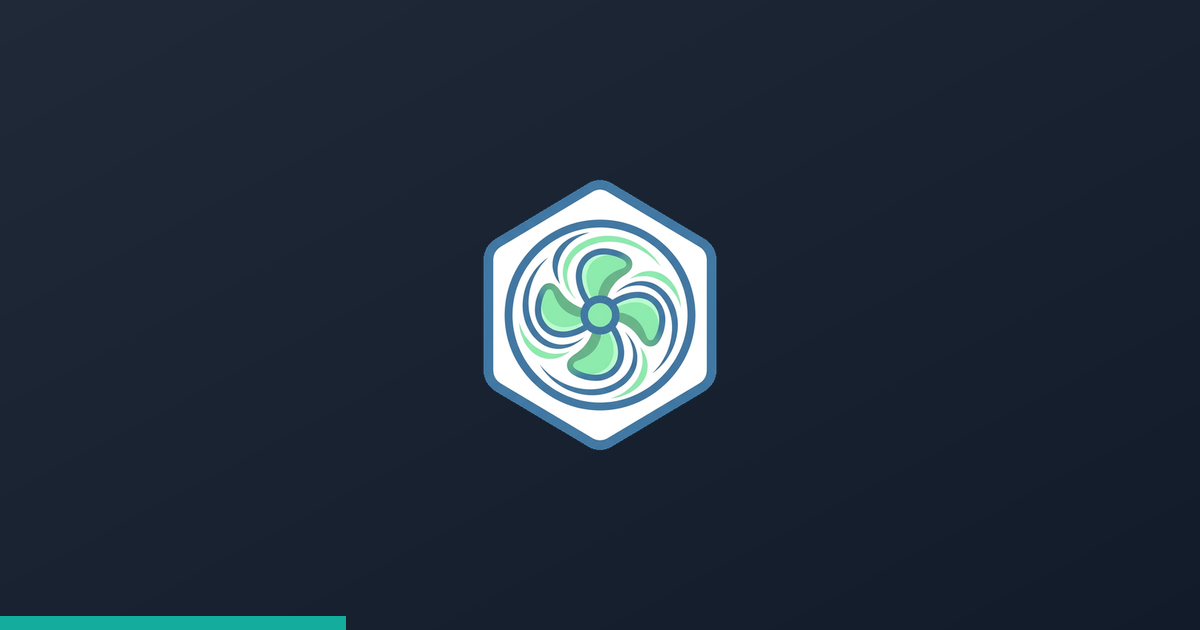
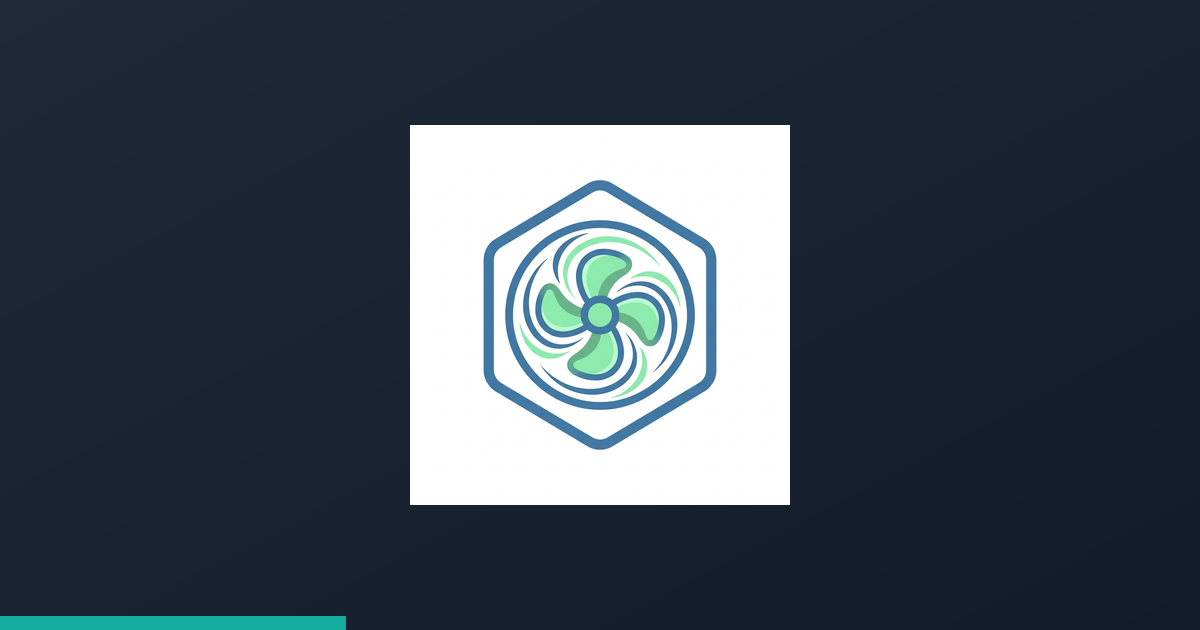
deploy: woodstockductcleaningpros.ca (github actions)

Changed region(s): [[0.3392, 0.181, 0.6783, 0.8143]]

diff --git a/about/index.html b/about/index.html
@@ -149,7 +149,7 @@
 <div class="footer-grid">
 <div>
 <a class="brand footer-brand" href="/">
-<img alt="Woodstock Duct Cleaning Pros" class="brand__logo" decoding="async" height="64" loading="eager" src="/assets/img/logos-trans/woodstockductcleaningpros.ca.png" width="64"/>
+<img alt="Woodstock Duct Cleaning Pros" class="brand__logo" decoding="async" height="64" loading="eager" src="/assets/img/logos/woodstockductcleaningpros.ca.png" width="64"/>
 </a>
 <p class="footer-about">Honest, dependable air duct cleaning for Woodstock, Ontario and the surrounding Oxford communities. Certified, insured, and available 24/7.</p>
 </div>

diff --git a/blog/index.html b/blog/index.html
@@ -102,7 +102,7 @@
 <div class="footer-grid">
 <div>
 <a class="brand footer-brand" href="/">
-<img alt="Woodstock Duct Cleaning Pros" class="brand__logo" decoding="async" height="64" loading="eager" src="/assets/img/logos-trans/woodstockductcleaningpros.ca.png" width="64"/>
+<img alt="Woodstock Duct Cleaning Pros" class="brand__logo" decoding="async" height="64" loading="eager" src="/assets/img/logos/woodstockductcleaningpros.ca.png" width="64"/>
 </a>
 <p class="footer-about">Honest, dependable air duct cleaning for Woodstock, Ontario and the surrounding Oxford communities. Certified, insured, and available 24/7.</p>
 </div>

diff --git a/contact/index.html b/contact/index.html
@@ -174,7 +174,7 @@
 <div class="footer-grid">
 <div>
 <a class="brand footer-brand" href="/">
-<img alt="Woodstock Duct Cleaning Pros" class="brand__logo" decoding="async" height="64" loading="eager" src="/assets/img/logos-trans/woodstockductcleaningpros.ca.png" width="64"/>
+<img alt="Woodstock Duct Cleaning Pros" class="brand__logo" decoding="async" height="64" loading="eager" src="/assets/img/logos/woodstockductcleaningpros.ca.png" width="64"/>
 </a>
 <p class="footer-about">Honest, dependable air duct cleaning for Woodstock, Ontario and the surrounding Oxford communities. Certified, insured, and available 24/7.</p>
 </div>

diff --git a/index.html b/index.html
@@ -321,7 +321,7 @@
 <div class="footer-grid">
 <div>
 <a class="brand footer-brand" href="/">
-<img alt="Woodstock Duct Cleaning Pros" class="brand__logo" decoding="async" height="64" loading="eager" src="/assets/img/logos-trans/woodstockductcleaningpros.ca.png" width="64"/>
+<img alt="Woodstock Duct Cleaning Pros" class="brand__logo" decoding="async" height="64" loading="eager" src="/assets/img/logos/woodstockductcleaningpros.ca.png" width="64"/>
 </a>
 <p class="footer-about">Honest, dependable air duct cleaning for Woodstock, Ontario and the surrounding Oxford communities. Certified, insured, and available 24/7.</p>
 </div>

diff --git a/locations/embro/index.html b/locations/embro/index.html
@@ -199,7 +199,7 @@
 <div class="footer-grid">
 <div>
 <a class="brand footer-brand" href="/">
-<img alt="Woodstock Duct Cleaning Pros" class="brand__logo" decoding="async" height="64" loading="eager" src="/assets/img/logos-trans/woodstockductcleaningpros.ca.png" width="64"/>
+<img alt="Woodstock Duct Cleaning Pros" class="brand__logo" decoding="async" height="64" loading="eager" src="/assets/img/logos/woodstockductcleaningpros.ca.png" width="64"/>
 </a>
 <p class="footer-about">Honest, dependable air duct cleaning for Woodstock, Ontario and the surrounding Oxford communities. Certified, insured, and available 24/7.</p>
 </div>

diff --git a/locations/innerkip/index.html b/locations/innerkip/index.html
@@ -199,7 +199,7 @@
 <div class="footer-grid">
 <div>
 <a class="brand footer-brand" href="/">
-<img alt="Woodstock Duct Cleaning Pros" class="brand__logo" decoding="async" height="64" loading="eager" src="/assets/img/logos-trans/woodstockductcleaningpros.ca.png" width="64"/>
+<img alt="Woodstock Duct Cleaning Pros" class="brand__logo" decoding="async" height="64" loading="eager" src="/assets/img/logos/woodstockductcleaningpros.ca.png" width="64"/>
 </a>
 <p class="footer-about">Honest, dependable air duct cleaning for Woodstock, Ontario and the surrounding Oxford communities. Certified, insured, and available 24/7.</p>
 </div>

diff --git a/services/air-duct-cleaning/index.html b/services/air-duct-cleaning/index.html
@@ -225,7 +225,7 @@
 <div class="footer-grid">
 <div>
 <a class="brand footer-brand" href="/">
-<img alt="Woodstock Duct Cleaning Pros" class="brand__logo" decoding="async" height="64" loading="eager" src="/assets/img/logos-trans/woodstockductcleaningpros.ca.png" width="64"/>
+<img alt="Woodstock Duct Cleaning Pros" class="brand__logo" decoding="async" height="64" loading="eager" src="/assets/img/logos/woodstockductcleaningpros.ca.png" width="64"/>
 </a>
 <p class="footer-about">Honest, dependable air duct cleaning for Woodstock, Ontario and the surrounding Oxford communities. Certified, insured, and available 24/7.</p>
 </div>

diff --git a/services/commercial-duct-cleaning/index.html b/services/commercial-duct-cleaning/index.html
@@ -225,7 +225,7 @@
 <div class="footer-grid">
 <div>
 <a class="brand footer-brand" href="/">
-<img alt="Woodstock Duct Cleaning Pros" class="brand__logo" decoding="async" height="64" loading="eager" src="/assets/img/logos-trans/woodstockductcleaningpros.ca.png" width="64"/>
+<img alt="Woodstock Duct Cleaning Pros" class="brand__logo" decoding="async" height="64" loading="eager" src="/assets/img/logos/woodstockductcleaningpros.ca.png" width="64"/>
 </a>
 <p class="footer-about">Honest, dependable air duct cleaning for Woodstock, Ontario and the surrounding Oxford communities. Certified, insured, and available 24/7.</p>
 </div>

diff --git a/services/dryer-vent-cleaning/index.html b/services/dryer-vent-cleaning/index.html
@@ -225,7 +225,7 @@
 <div class="footer-grid">
 <div>
 <a class="brand footer-brand" href="/">
-<img alt="Woodstock Duct Cleaning Pros" class="brand__logo" decoding="async" height="64" loading="eager" src="/assets/img/logos-trans/woodstockductcleaningpros.ca.png" width="64"/>
+<img alt="Woodstock Duct Cleaning Pros" class="brand__logo" decoding="async" height="64" loading="eager" src="/assets/img/logos/woodstockductcleaningpros.ca.png" width="64"/>
 </a>
 <p class="footer-about">Honest, dependable air duct cleaning for Woodstock, Ontario and the surrounding Oxford communities. Certified, insured, and available 24/7.</p>
 </div>

diff --git a/services/duct-sanitizing/index.html b/services/duct-sanitizing/index.html
@@ -225,7 +225,7 @@
 <div class="footer-grid">
 <div>
 <a class="brand footer-brand" href="/">
-<img alt="Woodstock Duct Cleaning Pros" class="brand__logo" decoding="async" height="64" loading="eager" src="/assets/img/logos-trans/woodstockductcleaningpros.ca.png" width="64"/>
+<img alt="Woodstock Duct Cleaning Pros" class="brand__logo" decoding="async" height="64" loading="eager" src="/assets/img/logos/woodstockductcleaningpros.ca.png" width="64"/>
 </a>
 <p class="footer-about">Honest, dependable air duct cleaning for Woodstock, Ontario and the surrounding Oxford communities. Certified, insured, and available 24/7.</p>
 </div>

diff --git a/services/duct-sealing-repair/index.html b/services/duct-sealing-repair/index.html
@@ -225,7 +225,7 @@
 <div class="footer-grid">
 <div>
 <a class="brand footer-brand" href="/">
-<img alt="Woodstock Duct Cleaning Pros" class="brand__logo" decoding="async" height="64" loading="eager" src="/assets/img/logos-trans/woodstockductcleaningpros.ca.png" width="64"/>
+<img alt="Woodstock Duct Cleaning Pros" class="brand__logo" decoding="async" height="64" loading="eager" src="/assets/img/logos/woodstockductcleaningpros.ca.png" width="64"/>
 </a>
 <p class="footer-about">Honest, dependable air duct cleaning for Woodstock, Ontario and the surrounding Oxford communities. Certified, insured, and available 24/7.</p>
 </div>

diff --git a/services/furnace-ac-cleaning/index.html b/services/furnace-ac-cleaning/index.html
@@ -225,7 +225,7 @@
 <div class="footer-grid">
 <div>
 <a class="brand footer-brand" href="/">
-<img alt="Woodstock Duct Cleaning Pros" class="brand__logo" decoding="async" height="64" loading="eager" src="/assets/img/logos-trans/woodstockductcleaningpros.ca.png" width="64"/>
+<img alt="Woodstock Duct Cleaning Pros" class="brand__logo" decoding="async" height="64" loading="eager" src="/assets/img/logos/woodstockductcleaningpros.ca.png" width="64"/>
 </a>
 <p class="footer-about">Honest, dependable air duct cleaning for Woodstock, Ontario and the surrounding Oxford communities. Certified, insured, and available 24/7.</p>
 </div>
